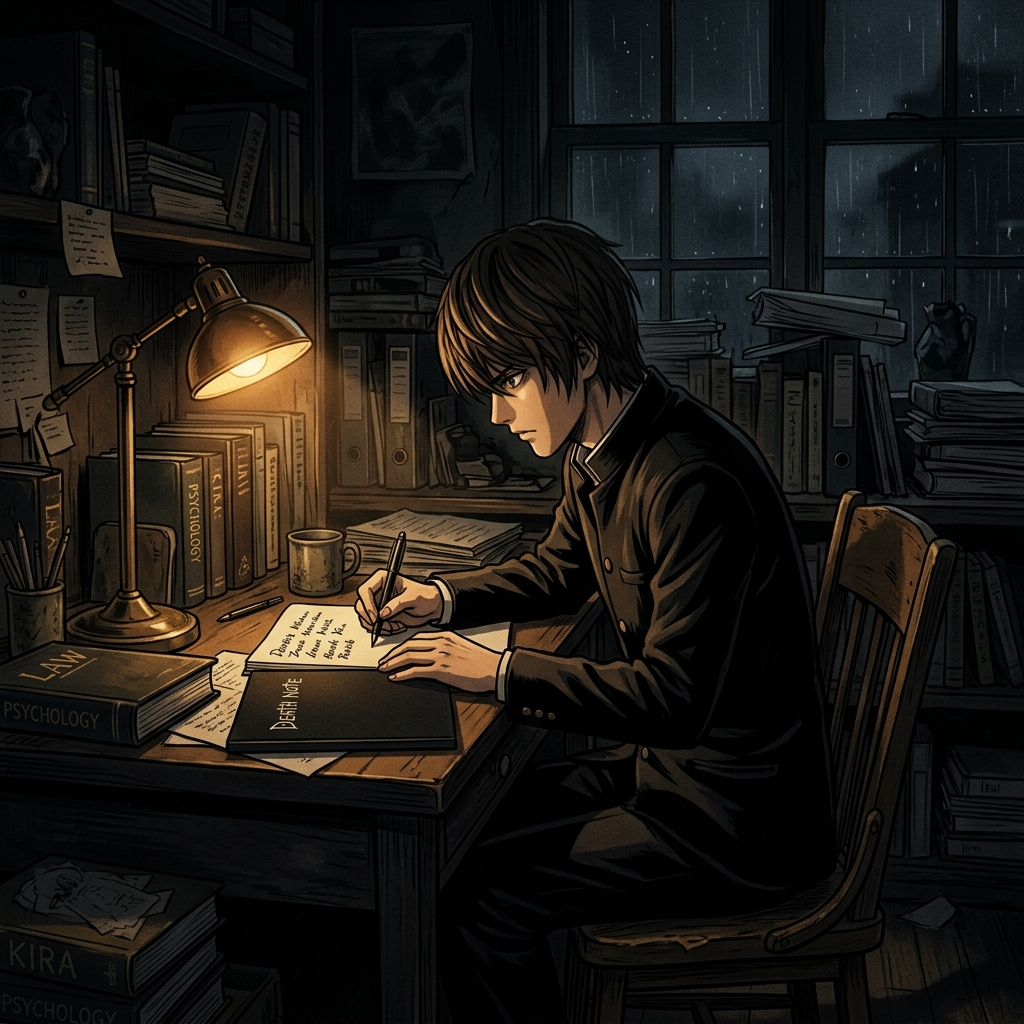
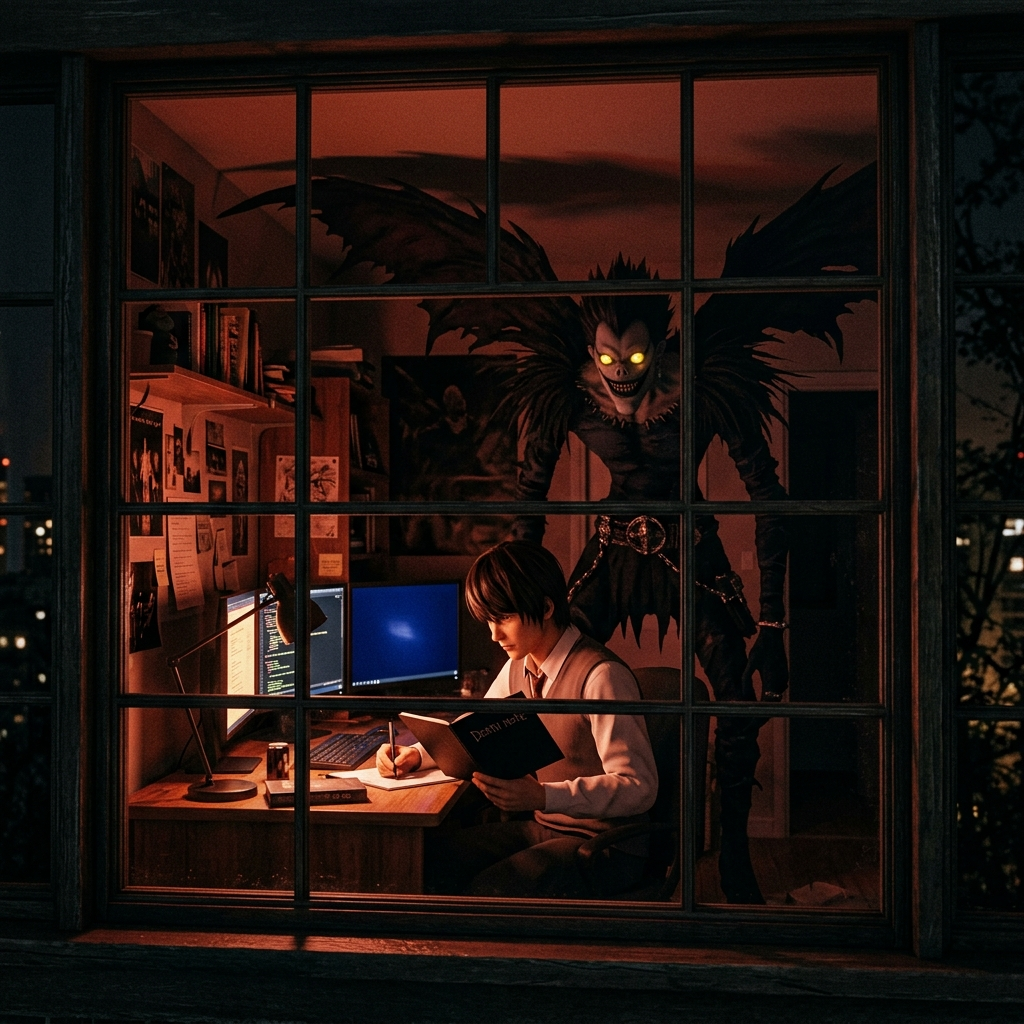
Update hero artwork to wide zoomed-out window perspective showing Ryuk, desk, and room

diff --git a/client/src/index.css b/client/src/index.css
@@ -16,9 +16,9 @@
 @media (prefers-reduced-motion:no-preference){.file-label span{animation:signal-pulse 2.8s ease-in-out infinite}@keyframes signal-pulse{0%,100%{opacity:.7;transform:scale(1)}50%{opacity:1;transform:scale(1.35)}}}@media (prefers-reduced-motion:reduce){*,*::before,*::after{scroll-behavior:auto!important;animation-duration:.001ms!important;animation-iteration-count:1!important;transition-duration:.001ms!important}}@media(max-width:900px){.site-header nav{display:none}.hero-status{display:none}.hero-content{padding:5rem 7vw}.hero-art{object-position:68% center}.ledger-section{padding-left:7vw;padding-right:7vw}.ledger-section::before{left:2.5vw}.ledger-section::after{left:calc(2.5vw - 2px)}.method-section,.record-section,.notes-section,.foundation-section{grid-template-columns:1fr;gap:3rem}.feature-case,.automation-file{grid-template-columns:1fr;gap:0}.feature-image{min-height:280px}.feature-copy{padding:2rem 0}.automation-file{padding:2rem 0}.automation-proof{padding-top:2rem}.project-pair{grid-template-columns:1fr}}@media(max-width:600px){.site-header{padding:0 1rem}.brand small{display:none}.cv-link{padding:.55rem .62rem}.hero{min-height:calc(100svh - 64px)}.hero-content{padding:4rem 1.2rem}.hero h1{font-size:clamp(3.1rem,15vw,4.7rem)}.hero-copy{font-size:.98rem}.hero-actions{margin-top:1.8rem}.proof-strip{grid-template-columns:1fr}.proof-strip article,.proof-strip article+article{padding:1.25rem 0;border-left:0;border-bottom:1px solid rgba(233,227,218,.12)}.proof-strip article:last-child{border-bottom:0}.ledger-section{padding-left:2.1rem;padding-right:1.1rem}.ledger-section::before{left:.75rem}.ledger-section::after{left:calc(.75rem - 2px)}.content-section{padding-top:4.5rem;padding-bottom:4.5rem}.section-heading h2{font-size:clamp(2.75rem,13vw,4.2rem)}.method-row{grid-template-columns:2.3rem 1fr 1rem}.project-pair article{grid-template-columns:102px 1fr;gap:.8rem}.project-pair img{width:102px;height:102px}.feature-image{min-height:220px}.record-list>article,.foundation-list>article{grid-template-columns:5.8rem 1fr;gap:.7rem}.record-list>article .seal{display:none}.contact-section{padding:4.5rem 1.2rem}footer{flex-direction:column;align-items:flex-start;padding:1.4rem 1.2rem}.footer-links{flex-wrap:wrap}.footer-links span{margin-left:0;width:100%;margin-top:.4rem}}
 
 /* Review-driven refinement: scene legibility and a strictly controlled evidence accent. */
-.hero-art{opacity:.98;filter:brightness(1.08) contrast(1.05) saturate(.85);object-fit:cover;object-position:center 20%;transition:transform .7s cubic-bezier(.16,1,.3,1),filter .7s ease;transform:scale(1)}
-.hero:hover .hero-art{transform:scale(1.05);filter:brightness(1.16) contrast(1.08) saturate(.95)}
-.is-scanning .hero-art{transform:scale(1.08) translateY(-8px);filter:brightness(1.2) contrast(1.12) saturate(1)}
+.hero-art{opacity:.98;filter:brightness(1.1) contrast(1.08) saturate(.9);object-fit:cover;object-position:center center;transition:transform .8s cubic-bezier(.16,1,.3,1),filter .8s ease;transform:scale(1.01)}
+.hero:hover .hero-art{transform:scale(1.06) translateY(-5px);filter:brightness(1.18) contrast(1.12) saturate(1)}
+.is-scanning .hero-art{transform:scale(1.09) translateY(-10px);filter:brightness(1.22) contrast(1.15) saturate(1.05)}
 
 /* Single Big Red Name Styling */
 .hero-title-single{margin:0.4rem 0 0.8rem;font-size:clamp(3.8rem,10vw,7.5rem);font-weight:800;line-height:0.95;letter-spacing:-0.03em;text-transform:uppercase}

diff --git a/client/src/pages/Home.tsx b/client/src/pages/Home.tsx
@@ -88,10 +88,7 @@ export default function Home() {
 
       <main id="main-content">
         <section id="top" className={`hero ${scanActive ? "is-scanning" : ""}`}>
-          <img className="hero-art" src={ASSETS.hero} alt="Light Yagami writing at his desk" />
-          <div className="ryuk-companion-wrapper" aria-hidden="true">
-            <img className="ryuk-companion" src="/assets/ryuk-overlay.png" alt="Ryuk floating object" />
-          </div>
+          <img className="hero-art" src={ASSETS.hero} alt="Light Yagami writing at his desk with Ryuk looming behind him through the window" />
           <div className="hero-wash" aria-hidden="true" />
           <div className="hero-parallax" aria-hidden="true"><i className="ink-wisp wisp-one" /><i className="ink-wisp wisp-two" /><i className="ink-wisp wisp-three" /></div>
           <div className="hero-paper-traces" aria-hidden="true"><i /><i /><i /></div>
